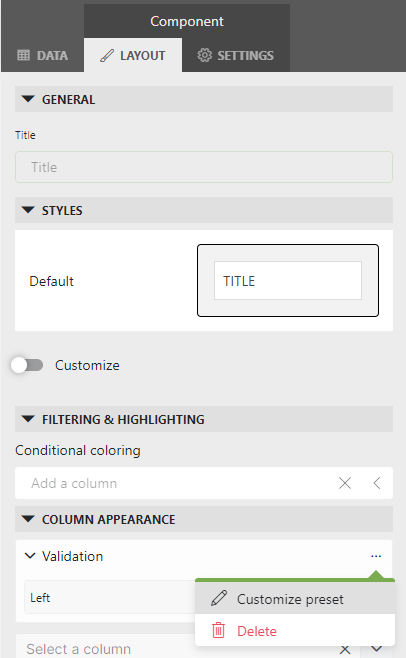
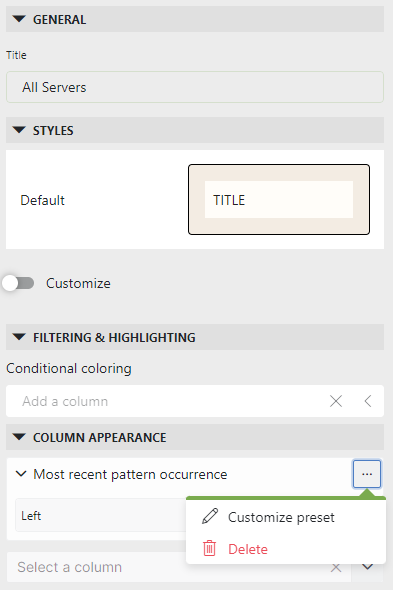
Review

diff --git a/user-guide/Basic_Functionality/Alarms/Working_with_alarms/Advanced_analytics_features/Tutorials/Using_trend_patterns_to_detect_backup_failures.md b/user-guide/Basic_Functionality/Alarms/Working_with_alarms/Advanced_analytics_features/Tutorials/Using_trend_patterns_to_detect_backup_failures.md
@@ -4,9 +4,12 @@ uid: trend_patterns_backup_failures
 
 # Using trend patterns to detect backup failures
 
-This tutorial illustrates DataMiner's [pattern matching](xref:Working_with_pattern_matching) feature in the context of Dashboards and Low-Code apps. It will show you how to access patterns and occurrences within a dashboard and how to effectively handle missing pattern occurrences, using the example of server backups. By utilizing a trend pattern, DataMiner will detect the backups. The goal of the example dashboard in this tutorial is to generate a comprehensive report indicating whether daily backup patterns have been detected for all servers.
+This tutorial illustrates DataMiner's [pattern matching](xref:Working_with_pattern_matching) feature in the context of Dashboards and Low-Code Apps. It will show you how to access patterns and occurrences within a dashboard and how to effectively handle missing pattern occurrences, using the example of server backups. By utilizing a trend pattern, DataMiner will detect the backups. The goal of the example dashboard in this tutorial is to generate a comprehensive report indicating whether daily backup patterns have been detected for all servers.
 
 Estimated duration: 20 minutes.
+
+> [!NOTE]
+> The content and screenshots for this tutorial were created in DataMiner 10.4.4.
 
 > [!TIP]
 >
@@ -48,7 +51,7 @@ The tutorial consists of the following steps:
 
    This component will allow users to select a specific trend pattern, which will be used in a query to retrieve the occurrences.
 
-1. Drag and drop the *table* visualization from the pane on the left to the dashboard, below the Dropdown component.
+1. Drag and drop the *table* visualization from the pane on the left to the dashboard, below the dropdown component.
 
    ![Table visualizations](~/user-guide/images/Tutorial_patterns_in_dashboards_add_table.png)
 
@@ -70,17 +73,17 @@ The tutorial consists of the following steps:
 
       ![Select](~/user-guide/images/Tutorial_patterns_in_dashboards_query_patterns.png)
 
-1. Drag the query to the Dropdown component at the top of the dashboard.
+1. Drag the query to the dropdown component at the top of the dashboard.
 
-   This will link the component to the query, allowing the user to select any of the patterns in the system
+   This will link the component to the query, allowing the user to select any of the patterns in the system.
 
-1. In the Dropdown component, select the pattern *Kata backup*.
+1. In the dropdown component, select the pattern *Kata backup*.
 
    This pattern has been added by the package you installed earlier.
 
 1. Create another query and name it `Most recent pattern occurrences per server`.
 
-1. Drag the query to the Table component in order to link the component to this query.
+1. Drag the query to the table component in order to link the component to this query.
 
 1. Configure the query as follows:
 
@@ -90,64 +93,113 @@ The tutorial consists of the following steps:
 
       - Column: *Pattern ID*.
       - Filter method: *Equals*
-      - Value: Click the link icon in the value box, then select your Dropdown feed and the property *Pattern ID*, and click Apply
+      - Value: Click the link icon in the value box, then select your Dropdown feed and the property *Pattern ID*, and click *Apply*.
 
         ![Filter Pattern ID](~/user-guide/images/Tutorial_patterns_in_dashboards_filter_pattern.png)
 
-1. In our Parameter table that links to the pattern occurrences, the server name is part of the table key, so we'll use *ParameterKeyToSeparateColumns* operator to extract that from the *Parameter ID* Column
+1. Add an operator to extract the server name from the table key, so you will be able to use this as a column name:
 
-   - At the bottom of your query, select *Apply custom operator*, and then select *ParameterKeyToSeparateColumns*.
-   - In the *Parameter Key Column* box, select *Parameter ID*.
+   1. At the bottom of the query, select *Apply custom operator*, and then select *ParameterKeyToSeparateColumns*.
+
+   1. In the *Parameter Key Column* box, select *Parameter ID*.
 
    ![ParameterKeyToSeparateColumns](~/user-guide/images/Tutorial_patterns_in_dashboards_customop_Parameterkeytoseparatecolumns.png)
 
-1. Follow the same procedure to add another custom operator *Rename column* to rename the *Table Index* column to *Server*.
+1. Add another custom operator to rename the *Table Index* column to *Server*.
+
+   1. Select *Apply custom operator*, and then select *Rename column*.
+
+   1. Select the column *Table Index* and specify the new name `Server`.
 
    ![Rename](~/user-guide/images/Tutorial_patterns_in_dashboards_customop_renamecolumn.png)
 
-1. We will use the *Aggregate* operator to get the most recent pattern occurrence per server, but since the *Aggregate* operator does not support DateTime columns yet, we will apply a workaround by transforming our DateTime field to a double and back.
+1. Configure the query so that the most recent pattern occurrences per server will be retrieved:
 
-    - Add another custom operator *DateTimeToDouble* on the column *StartTime*.
-    - Then add an *Aggregate* operator that takes the *Maximum* from the new column *StartTime (as double)*.
-    - Add a *Groupby" operator by *Server*.
-    - Now add the custom operator *DoubleToDateTime* to get the result back to a DateTime format.
-    - Your query should look like this:
+   1. Add another custom operator to transform the values from the *Start time* field from DateTime to double format:
 
-    ![Rename](~/user-guide/images/Tutorial_patterns_in_dashboards_aggregate.png)
+      1. Select *Apply custom operator*, and then select *DateTimeToDouble*.
 
-1. Add another *Rename column* custom operator to rename the aggregated result column to "Most recent pattern occurrence".
+      1. Select the DateTime column *Start time*.
+
+      This transformation is necessary to be able to do an aggregate operation on the *Start time* column, as the Aggregate operator does not support DateTime columns yet.
+
+   1. Add an *Aggregate* operator to get the most recent pattern occurrence per server:
+
+      - Column: *Start time (as double)*
+      - Method: *Maximum*
+
+   1. Add a *Group by* operator, selecting the column *Server*.
+
+   1. Add the *DoubleToDateTime* custom operator to transform the result back to DateTime format.
+
+   Your query should now look like this:
+
+   ![Rename](~/user-guide/images/Tutorial_patterns_in_dashboards_aggregate.png)
+
+1. Add another *Rename column* custom operator to rename the aggregated result column to `Most recent pattern occurrence`.
 
     ![Rename](~/user-guide/images/Tutorial_patterns_in_dashboards_customop_renamecolumn2.png)
 
 ## Step 3: Interpret the timestamp of every occurrence
 
-Now we have the most recent pattern occurrence per server, it's time to make some judgement on those time stamps. We'll do that with a custom operator. This gives us a lot of flexibility, since we can code in there whatever we want. For this tutorial, we will use the custom operator from the catalog *DateIsOlderThan* which adds a column with the judgement of the date being older than a given number of days. The custom operator is also included in the package you have installed in step 1.
+Now that you have retrieved the most recent pattern occurrence per server, you can use a custom operator to make a judgment based on those timestamps. A custom operator provides a lot of flexibility, allowing you to code pretty much whatever you want. In this case, the custom operator *DateIsOlderThan* will be used, which is available in the DataMiner Catalog and was also included in the package you installed earlier. It adds a column indicating if the date is older than a given number of days.
 
-1. Add a custom operator *DateIsOlderThan* and link the column *Most recent pattern occurrence*. Choose "1" as *Number of days*.
+1. At the bottom of the *Most recent pattern occurrences per server* query, add the *DateIsOlderThan* custom operator, with the following configuration:
 
-    ![DateTimeIsOlderThan](~/user-guide/images/Tutorial_patterns_in_dashboards_customop_DateTimeIsOlderThan.png)
+   - Date Time Column: *Most recent pattern occurrence*
+   - Number of days: *1*
 
-1. Select the table and use the [Template editor](xref:Template_Editor) in *Layout/Column appearance/Customize preset*, to apply a nice validation icon/color on the *Most recent pattern occurrence* column.
+   ![DateTimeIsOlderThan](~/user-guide/images/Tutorial_patterns_in_dashboards_customop_DateTimeIsOlderThan.png)
 
-    ![Customize preset](~/user-guide/images/Tutorial_patterns_in_dashboards_customize_preset.png)
+1. Use the [Template editor](xref:Template_Editor) to configure a validation icon/color for the *Most recent pattern occurrence* column:
 
-    - Start from the *Left* preset
-    - Click '...' and choose *Customize preset*.
-    - Add a new *Icon* layer via Tools
-    - Draw the icon layer in the template totally to the left.
-    - Specify an extra left margin for the *Text* layer.
-    - Use conditions to use a 'check' icon and green text color if the validation was ok (value=yes).
-    - Use an exclamation mark icon and red text color in case the validation returned invalid (value=no).
+   1. Select the table, go to *Layout* > *Column appearance*, and select the *Most recent pattern occurrence* column.
 
-      ![Template](~/user-guide/images/Tutorial_patterns_in_dashboards_template.png)
+   1. Below this, select *Left*.
+
+   1. On the right side of box where you have selected the column, select ... > *Customize preset* to open the template editor.
+
+      ![Customize preset](~/user-guide/images/Tutorial_patterns_in_dashboards_customize_preset.png)
+
+   1. In the template editor, go to the *Tools* tab, select *Icon*, and drag the mouse pointer on the left side of the work area to draw the icon layer.
+
+      While the icon is selected, you can use the *Dimensions* boxes on the right to resize and reposition it exactly the way you want.
+
+   1. Select the text layer, and adjust the right margin via the lower left *Dimensions* box on the right, so that the text is displayed next to the icon.
+
+   1. Add a condition to the icon layer for when the validation is OK:
+
+      1. Click *+ Add case*.
+
+      1. Click *When condition*, select *Validation*, and specify the filter `Yes`.
+
+      1. Select *Show icon*, set the color to green (e.g. *#85A864*) and the icon to a check mark.
+
+         When you select the icon, you can use the filter box to quickly find a specific icon.
+
+   1. Add another condition to the icon layer for when the validation returns invalid:
+
+      1. Click *+ Add case*.
+
+      1. Click *When condition*, select *Validation*, and specify the filter `No`.
+
+      1. Select *Show icon*, set the color to red (e.g. *#FF0000*) and the icon to an "error" exclamation mark.
+
+   1. Similarly, add conditions to the text layer that will turn the text color to green or red depending on the validation.
+
+   ![Template](~/user-guide/images/Tutorial_patterns_in_dashboards_template.png)
 
    > [!TIP]
    > See also: [Template editor](xref:Template_Editor).
 
-1. The *validation* column is no longer needed now in the visualization, but we cannot remove it from the query, since we are using it in our cell template. We'll hide the column via Table filter options. We can do that by dragging the columns we want to see from our query to the table in the dashboard. To get access to the columns, go out of edit mode of your query and click the little arrow in front of your query. Now drag the column *Server* and *Most recent pattern occurrence* to the table component.
+1. Hide the columns in the table that no longer need to be shown:
 
-      ![Template](~/user-guide/images/Tutorial_patterns_in_column_filter.png)
+   1. In the *data* pane, make sure you are no longer editing the *Most recent pattern occurrences* query, and expand the query so you can see the columns it contains.
 
-    The resulting dashboard could for instance look like this:
+   1. Drag and drop the columns *Server* and *Most recent pattern occurrence* to the table component, so that these are added as a filter.
 
-      ![Result](~/user-guide/images/Tutorial_patterns_in_result.png)
+   ![Template](~/user-guide/images/Tutorial_patterns_in_column_filter.png)
+
+The resulting dashboard could for instance look like this:
+
+![Result](~/user-guide/images/Tutorial_patterns_in_result.png)
